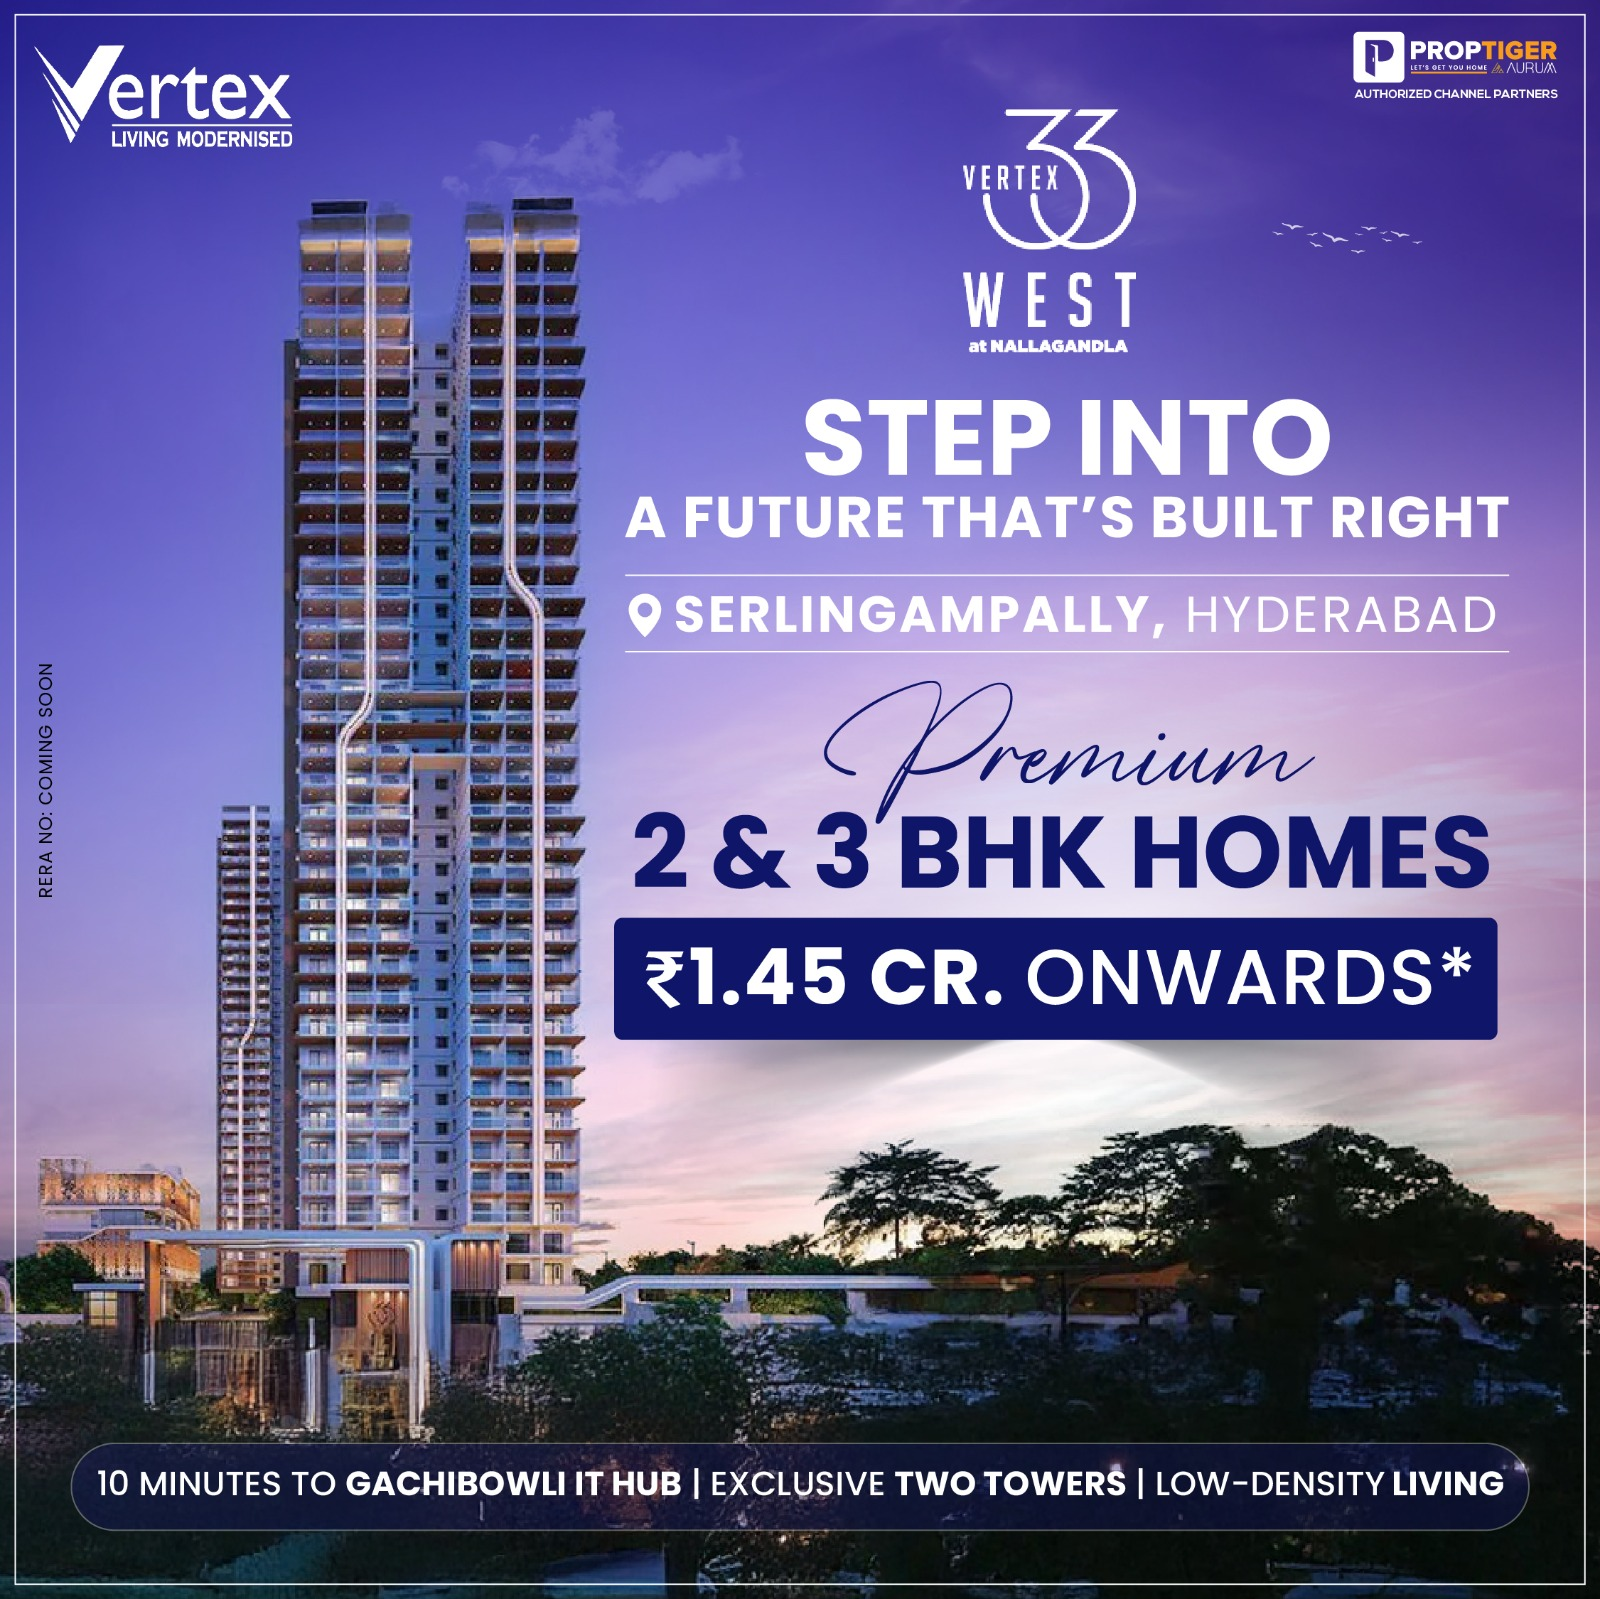
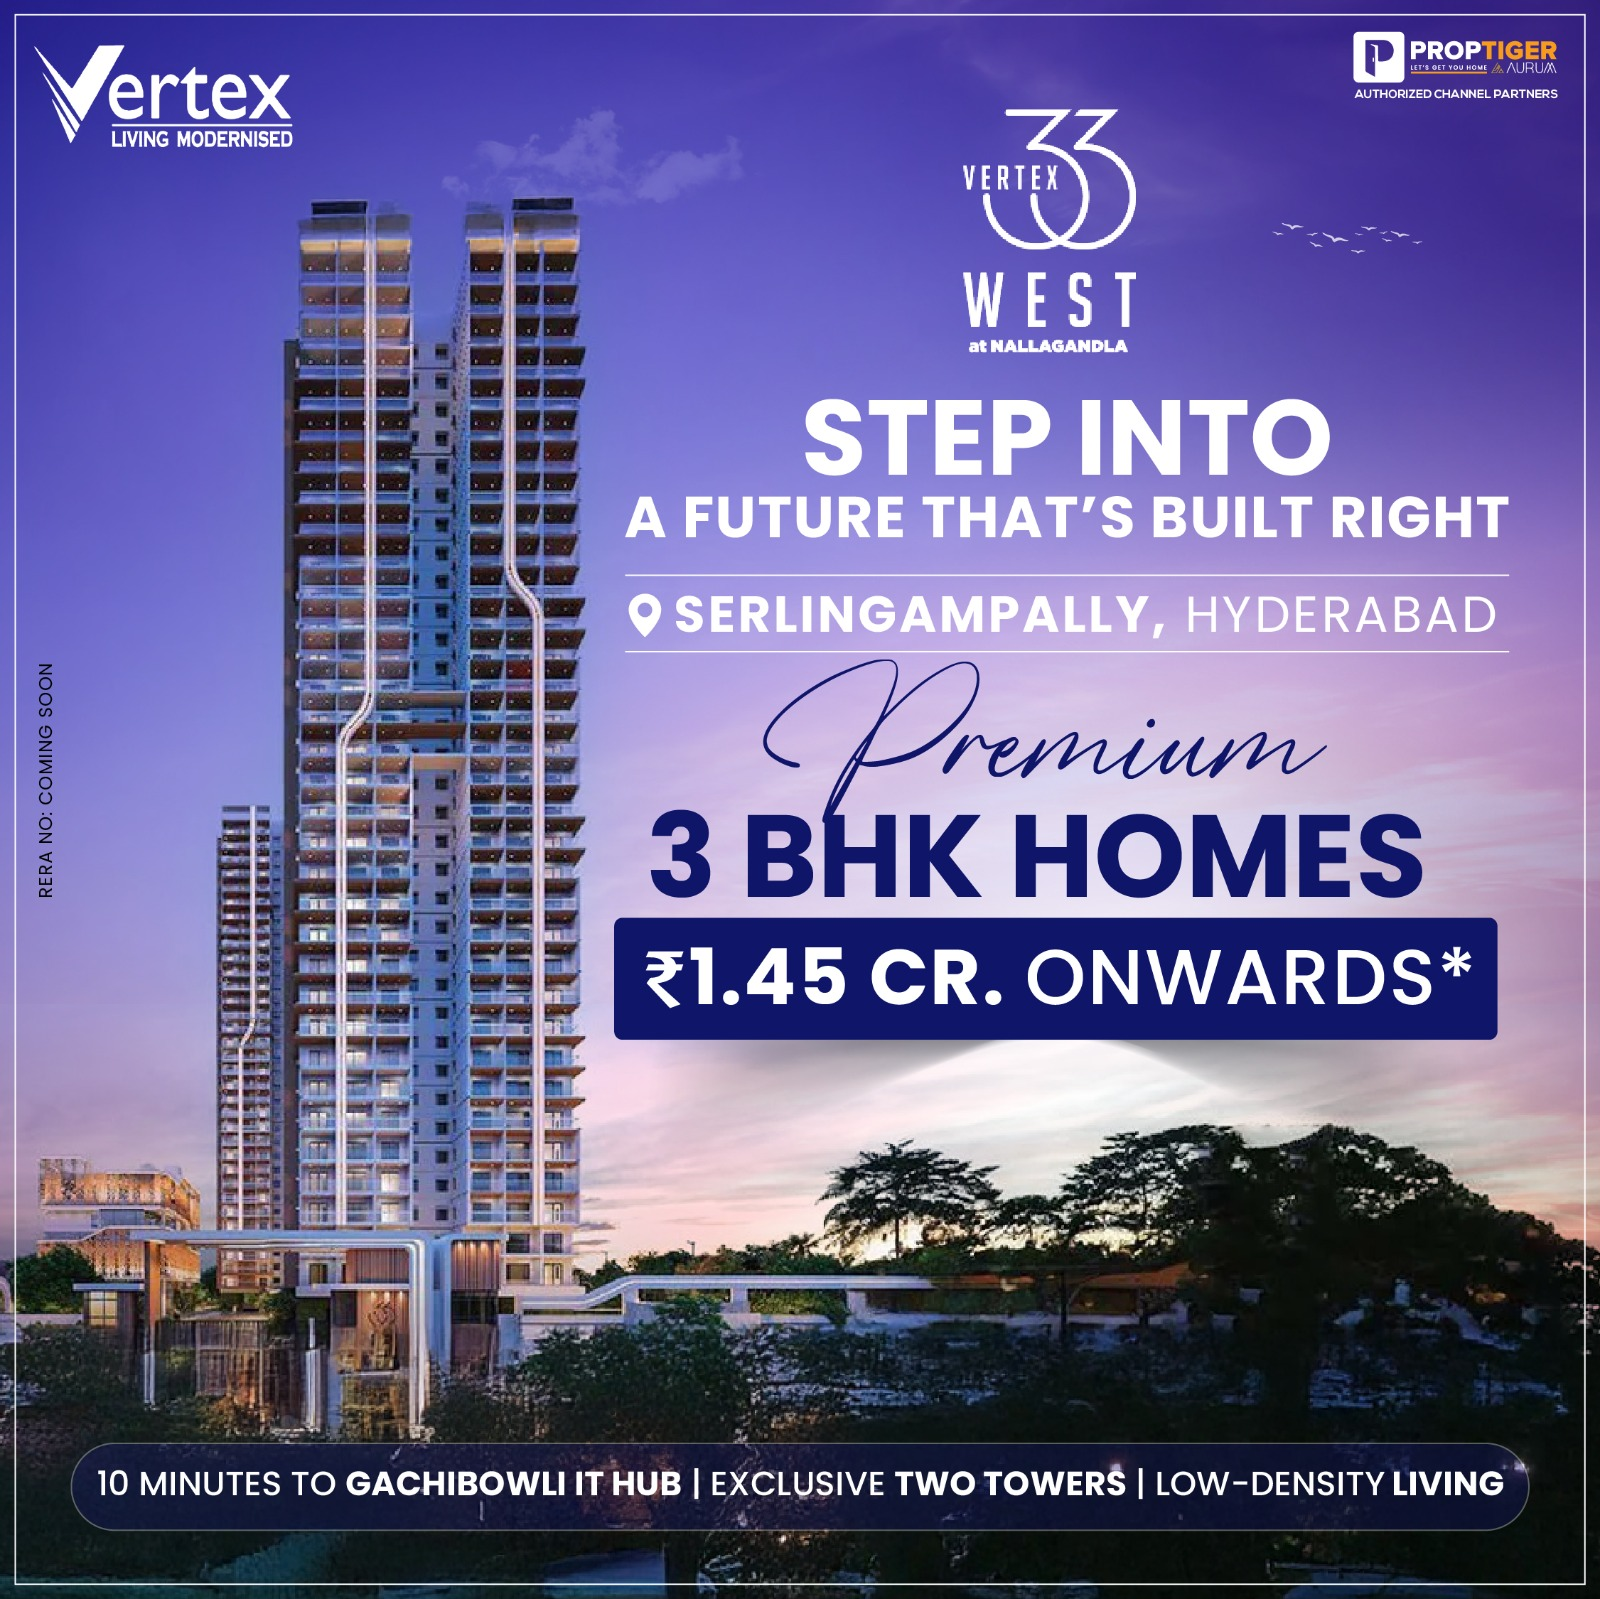
feat: initialize project structure with Hero, MasterPlan, Overview, Pricing components and application layout

Changed region(s): [[0.375, 0.429, 0.9375, 0.5822]]

diff --git a/app/layout.js b/app/layout.js
@@ -33,8 +33,8 @@ const nephilm = localFont({
 })
 
 export const metadata = {
-  title: 'Vertex 33 | 2 & 3 BHK Premium Apartments, Nallagandla, Gachibowli, Hyderabad',
-  description: 'Vertex 33 — Premium 2 & 3 BHK apartments at Nallagandla, Gachibowli, Hyderabad. 80% construction completed. Starting ₹1.45 Cr*. Current rate ₹8,299/sq.ft — price hike from June 1st. RERA: P02400006931.',
+  title: 'Vertex 33 | 2.5 & 3 BHK Premium Apartments, Nallagandla, Gachibowli, Hyderabad',
+  description: 'Vertex 33 — Premium 2.5 & 3 BHK apartments at Nallagandla, Gachibowli, Hyderabad. 80% construction completed. Starting ₹1.45 Cr*. Current rate ₹8,299/sq.ft — price hike from June 1st. RERA: P02400006931.',
   icons: {
     icon: faviconImages.icon,
     apple: faviconImages.apple,

diff --git a/components/Overview.jsx b/components/Overview.jsx
@@ -13,7 +13,7 @@ const stats = [
   { value: 'P02400006931', label: 'RERA No.' },
   { value: 'Nallagandla', label: 'Location' },
   { value: '80% Done', label: 'Construction' },
-  { value: '2 & 3 BHK', label: 'Configurations' },
+  { value: '2.5 & 3 BHK', label: 'Configurations' },
   { value: '₹8,299/sq.ft', label: 'Current Rate' },
   { value: '₹1.45 Cr*', label: 'Starting Price' },
 ]
@@ -137,7 +137,7 @@ const Overview = () => (
             fontFamily: F_SANS, fontSize: '14.5px', color: '#444444',
             lineHeight: 1.9, margin: '0 0 32px', textAlign: 'justify',
           }}>
-            Vertex 33 is a premium 2 &amp; 3 BHK residential development at Nallagandla, Gachibowli — Hyderabad&apos;s most coveted IT corridor. With 80% construction completed, near-ready homes are available starting at just ₹1.45 Cr*.
+            Vertex 33 is a premium 2.5 &amp; 3 BHK residential development at Nallagandla, Gachibowli — Hyderabad&apos;s most coveted IT corridor. With 80% construction completed, near-ready homes are available starting at just ₹1.45 Cr*.
             With an EMI holiday till January 2027, book now before the June 1st price revision to ₹8,499/sq.ft.
             Designed as an exclusive low-density development across 2 signature towers, every home features 3 private balconies, glass railings with unlimited views, and a stunning designer facade — a true statement of modern living.
             Residents also enjoy a sprawling podium with 60,000 sq.ft of joyscapes, spacious parking, and world-class amenities — everything you need within your own community.

diff --git a/components/Pricing.jsx b/components/Pricing.jsx
@@ -5,8 +5,8 @@ const F_JOST = 'var(--font-jost), Montserrat, sans-serif'
 const F_SANS = 'var(--font-sans), Open Sans, sans-serif'
 
 const rows = [
-  { type: '2 BHK Apartments', size: 'On Request', price: '1.45 Cr' },
-  { type: '3 BHK Apartments', size: 'On Request', price: 'Ask For Price' },
+  { type: '2.5 BHK Apartments', size: 'On Request', price: 'Ask For Price' },
+  { type: '3 BHK Apartments', size: 'On Request', price: '1.45 Cr' },
 ]
 
 const Pricing = ({ setIsOpen }) => (

diff --git a/components/Hero.jsx b/components/Hero.jsx
@@ -205,7 +205,7 @@ const Hero = ({ setIsOpen }) => {
         }}>
           {[
             'New Launch',
-            '2 & 3 BHK Luxury APARTMENTS',
+            '2.5 & 3 BHK Luxury APARTMENTS',
             '₹ 1.45 Cr* ONWARDS',
           ].map((text, i) => (
             <div

diff --git a/components/MasterPlan.jsx b/components/MasterPlan.jsx
@@ -8,7 +8,7 @@ const F_SANS = 'var(--font-sans), Open Sans, sans-serif'
 
 const plans = [
   { label: 'MASTER PLAN', img: masterplanImages.masterPlan },
-  { label: '2 BHK', img: masterplanImages.floorPlan },
+  { label: '2.5 BHK', img: masterplanImages.floorPlan },
   { label: '3 BHK', img: masterplanImages.floorPlan },
 ]
 